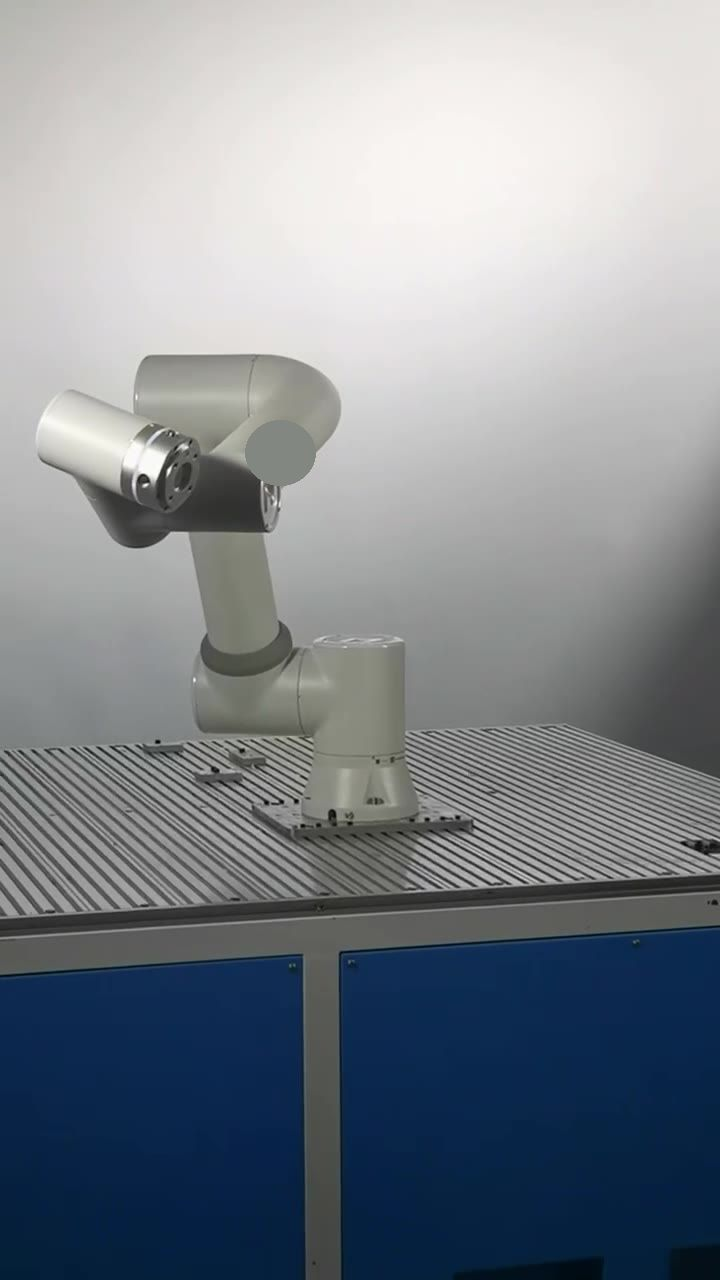
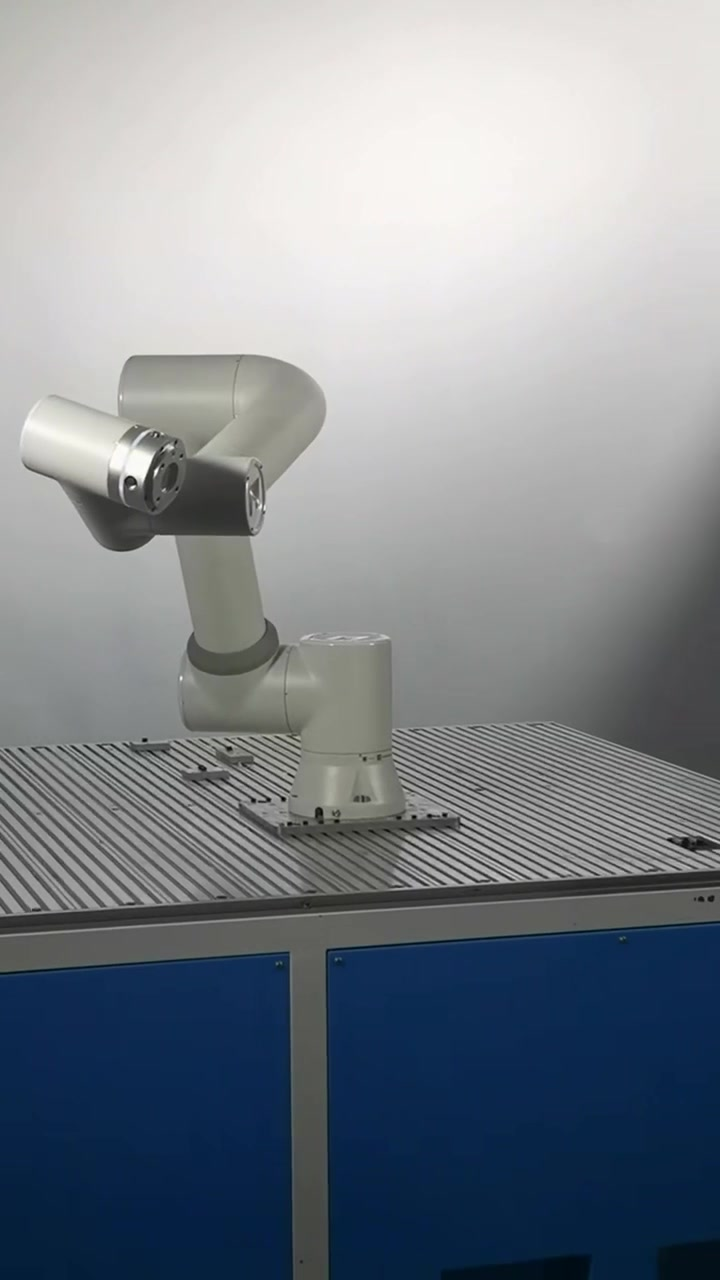
Restore unedited cobot photos on the Studio preview
Replace the covered hero and demo stills with the original showroom photo and frames taken straight from the demo video. Lab and the live homepage are unchanged.

diff --git a/designs/studio.html b/designs/studio.html
@@ -18,7 +18,7 @@
   <!--
     HEXKIT ACADEMY design preview. Variant A, Studio.
     Not the live homepage.
-    Cobot photos are local files in /assets/photos/ (Alex's scrubbed hero and demo stills).
+    Cobot photos are local files in /assets/photos/ (unedited hero and demo stills).
     Student and makerspace photos are free stock. Search for "Alex:" to swap those for consented workshop photos.
   -->
   <a class="skip-link" href="#main">Skip to content</a>
@@ -52,7 +52,7 @@
   <main id="main">
     <section class="hero" id="top">
       <div class="hero-media">
-        <img src="/assets/photos/cobot-hero-hexkit.jpg" alt="HEXKIT ACADEMY cobot, a white collaborative arm in a white showroom." width="1920" height="1920" />
+        <img src="/assets/photos/cobot-hero.jpg" alt="HEXKIT ACADEMY cobot, a white collaborative arm in a white showroom." width="1920" height="1920" />
         <p class="hero-caption">HEXKIT ACADEMY cobot. Showroom photo.</p>
       </div>
       <div class="hero-copy">
@@ -155,7 +155,7 @@
         <div class="ba" data-compare>
           <!-- Alex: left side stays a stock coding-camp contrast unless you have a photo you want here. -->
           <img class="ba-before" src="https://images.unsplash.com/photo-1427504494785-3a9ca7044f45?auto=format&fit=crop&w=1600&q=75" alt="Stock photo of students working on laptops in a classroom." width="1600" height="1000" />
-          <img class="ba-after" src="/assets/photos/cobot-hero-hexkit.jpg" alt="HEXKIT ACADEMY cobot in a white showroom." width="1920" height="1920" />
+          <img class="ba-after" src="/assets/photos/cobot-hero.jpg" alt="HEXKIT ACADEMY cobot in a white showroom." width="1920" height="1920" />
           <p class="ba-tag ba-tag-left">Laptop</p>
           <p class="ba-tag ba-tag-right">Cell</p>
           <div class="ba-handle" aria-hidden="true"></div>

diff --git a/designs/chooser.css b/designs/chooser.css
@@ -66,7 +66,7 @@ body.chooser {
 }
 
 .choice-studio {
-  background-image: url("/assets/photos/cobot-hero-hexkit.jpg");
+  background-image: url("/assets/photos/cobot-hero.jpg");
 }
 
 .choice-lab {
